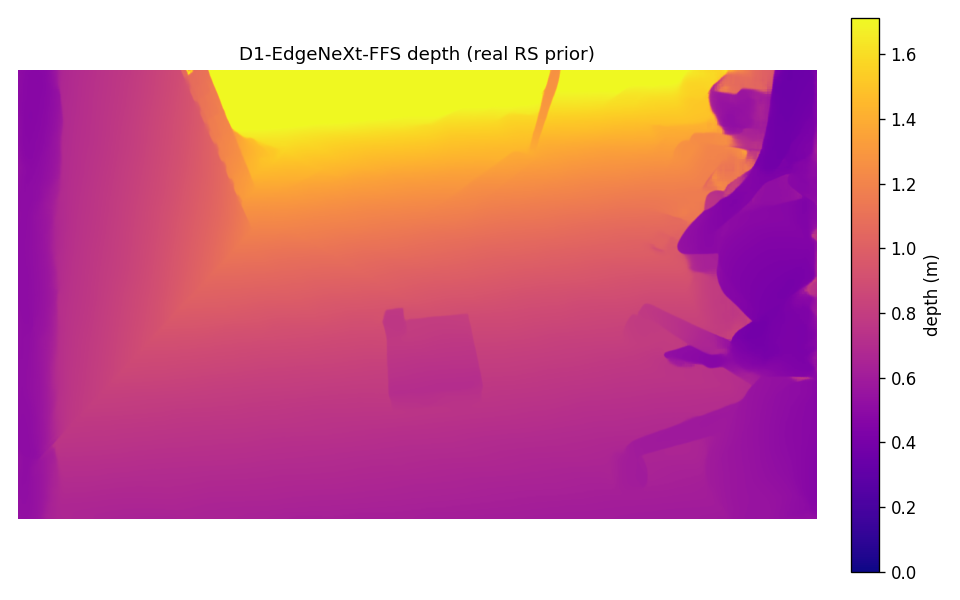
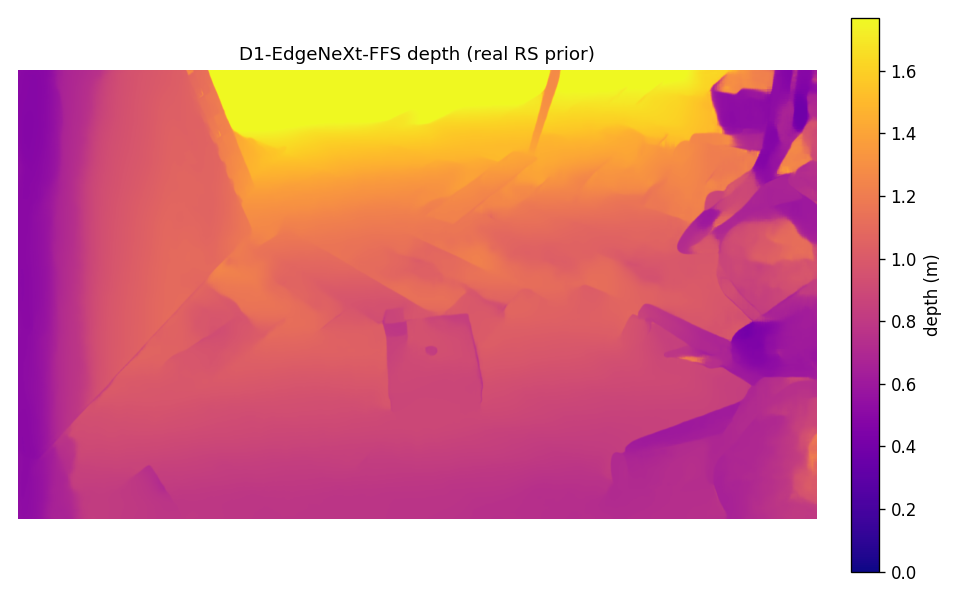
remove core_niv

diff --git a/niv/depth_prior_explainer.py b/niv/depth_prior_explainer.py
@@ -18,7 +18,7 @@ the predicted depth map.
 import argparse
 import os
 import sys
-import cv2, matlib
+import cv2  #matlib
 #matplotlib.use("Agg")
 import matplotlib.pyplot as plt
 
@@ -34,7 +34,10 @@ if _FFS_ROOT not in sys.path:
     sys.path.insert(0, _FFS_ROOT)
 
 from niv.smart_lite.model import build_gwc_volume
-from niv.smart_lite.ablation.d1_models import build_d1_model    
+from niv.smart_lite.ablation.d1_models import build_d1_model  
+
+device_type     = "cuda" if torch.cuda.is_available() else "cpu"
+device          = torch.device(device_type)
 
 MODEL_H, MODEL_W = 384, 512
 
@@ -228,7 +231,7 @@ def main():
     p.add_argument("--output-dir", default = f'{_FFS_ROOT}/demo_data_out')
     args = p.parse_args()
 
-    device          = torch.device(args.device)
+    #device          = torch.device(args.device)
     model_path      = args.ffs_ckpt #or os.path.join(_FFS_ROOT, "weights", "weights_niv","model_best_bp2_serialize.pth")
     
     # Load model

diff --git a/niv/image_client.py b/niv/image_client.py
@@ -2,7 +2,7 @@ import socket
 import sys
 import cv2
 import numpy as np
-from core_niv.niv.image_server import send_msg, recv_msg
+from niv.image_server import send_msg, recv_msg
 
 
 class ImageClient:
